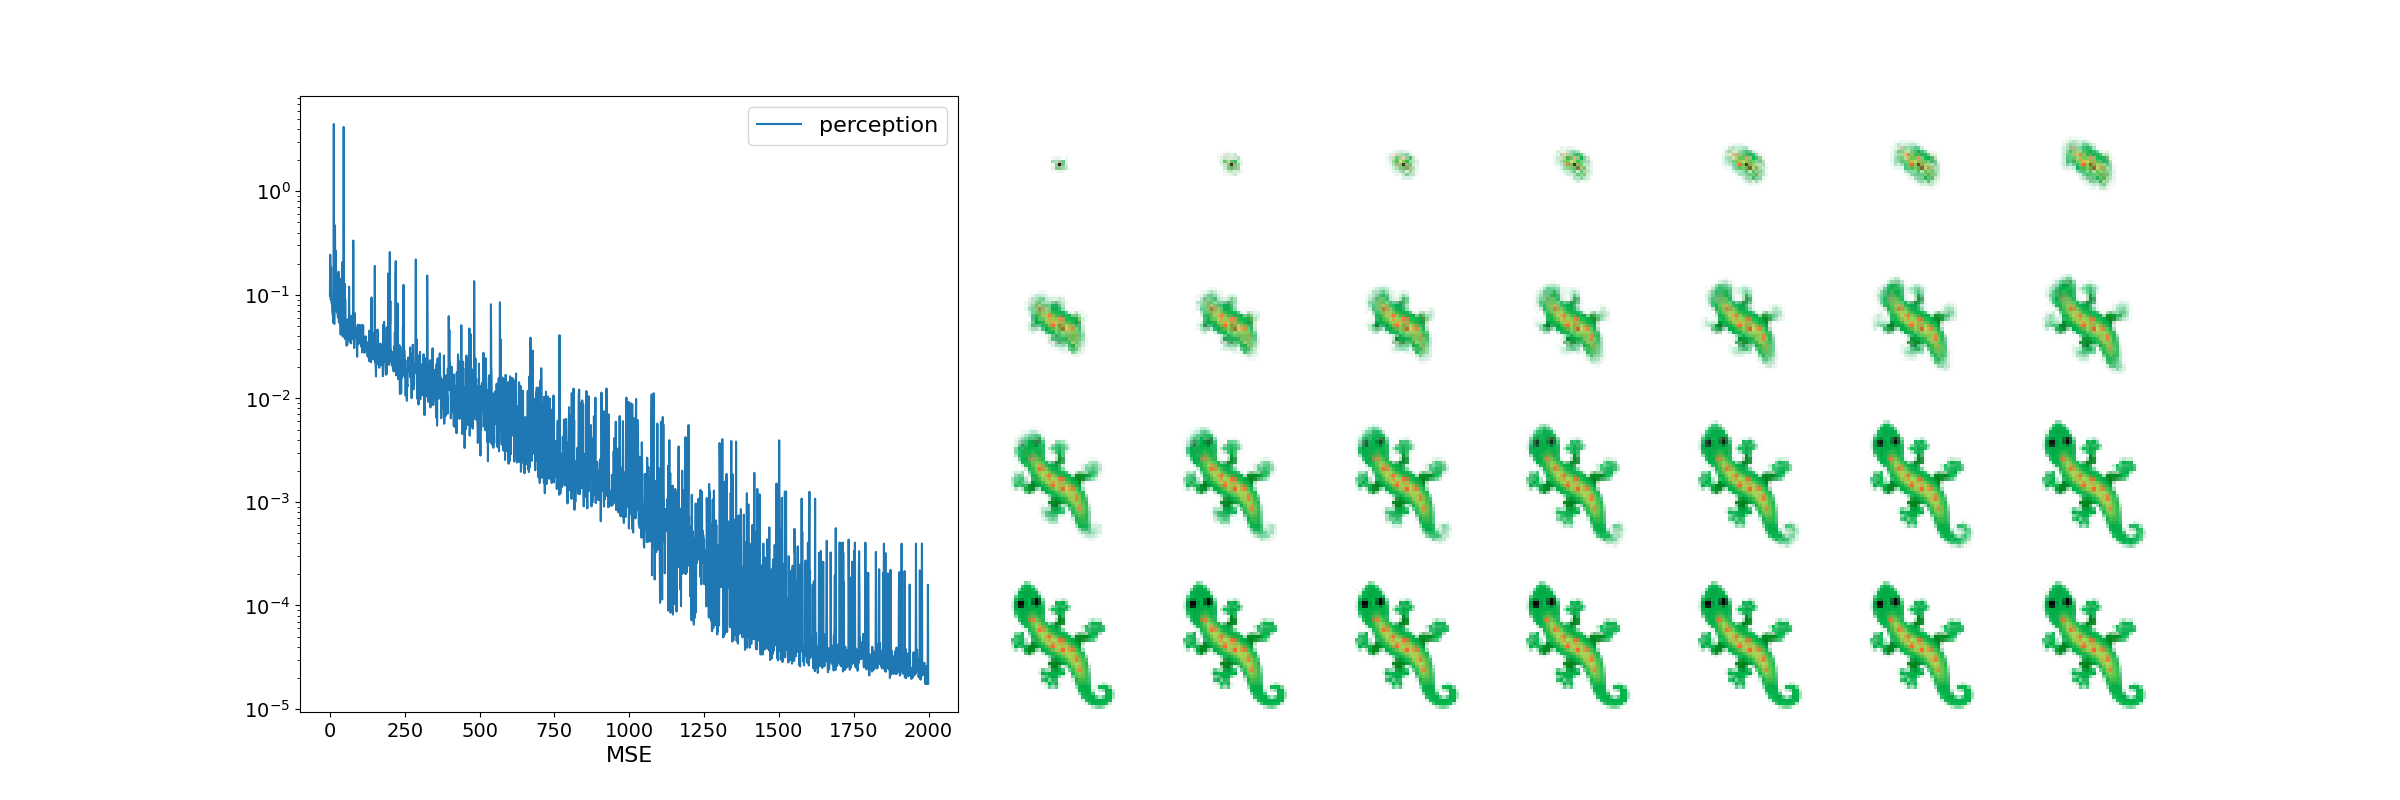
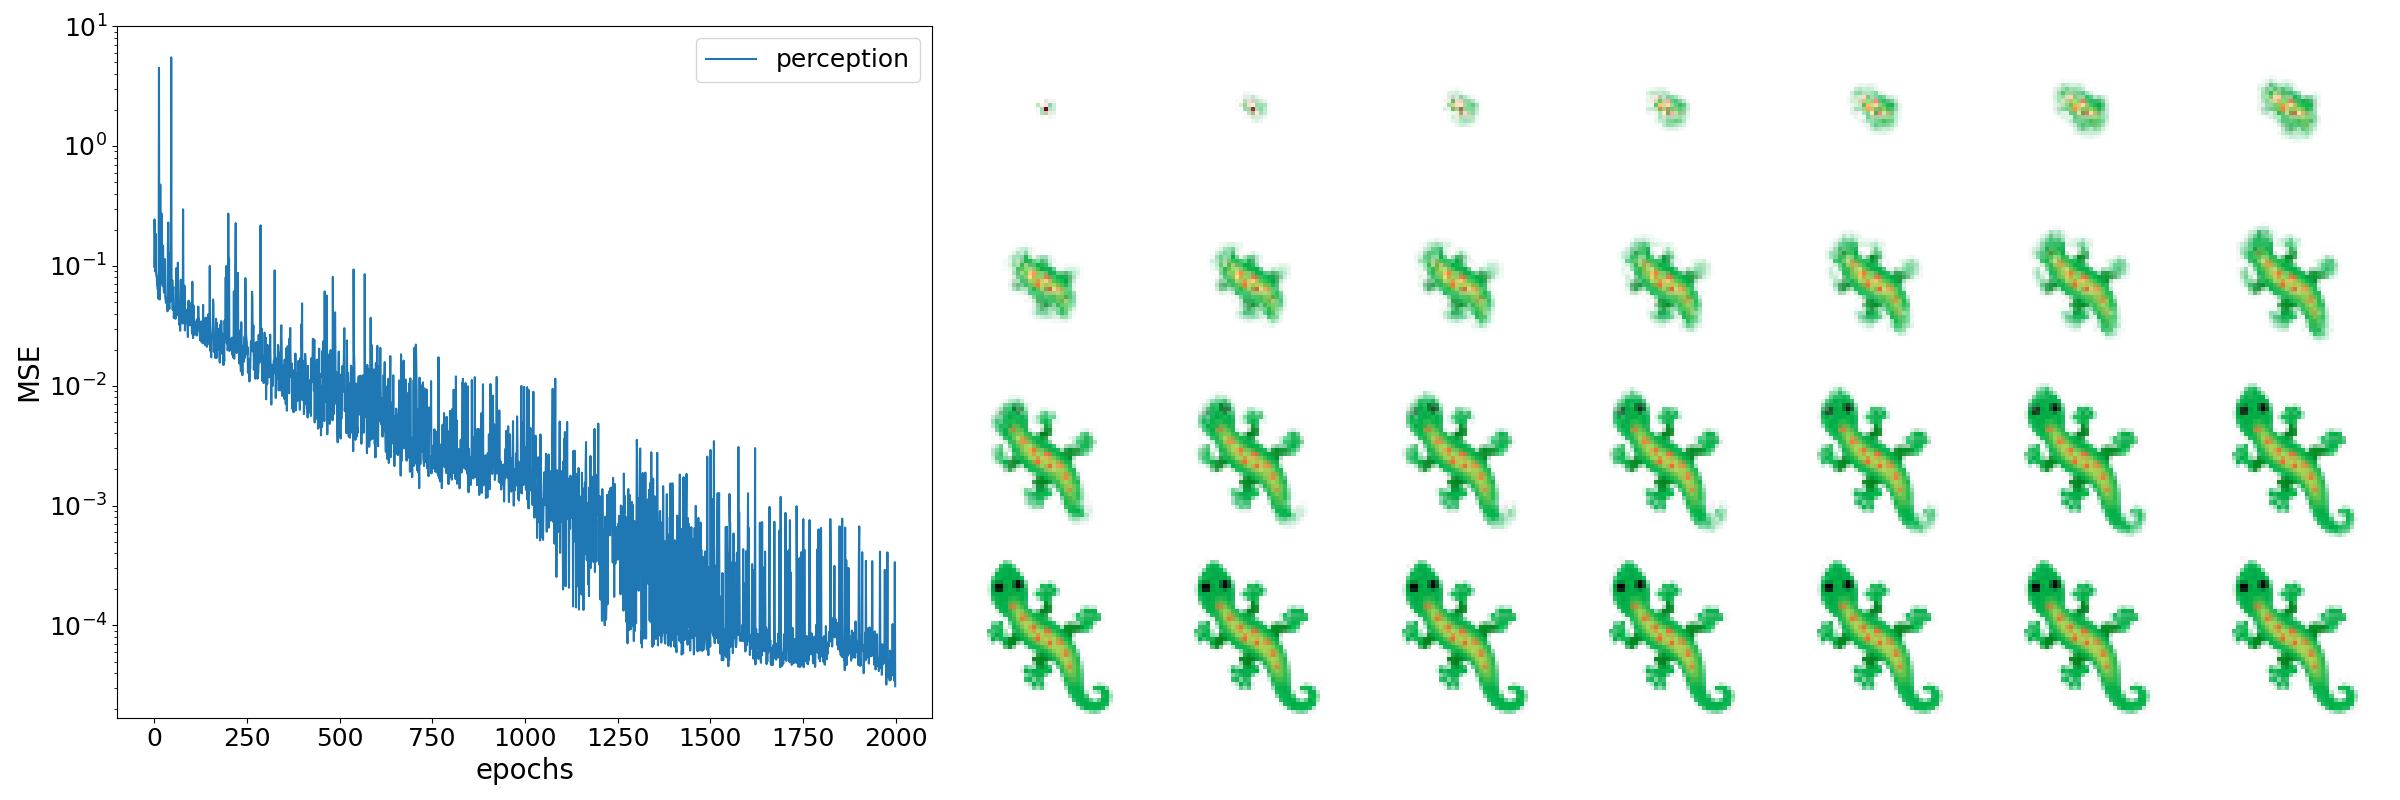
update README figures

diff --git a/utils_figures.py b/utils_figures.py
@@ -12,10 +12,11 @@ def fig_loss_and_synthesis(imgs_syn, losses, save=False, label='loss'):
             count += 2
     ax2 = fig.add_subplot(gs[:4, :4])
     ax2.semilogy(losses, label=label)
-    ax2.legend(fontsize=16)
-    ax2.set_xlabel('epochs', fontsize=16)
-    ax2.set_xlabel('MSE', fontsize=16)
-    ax2.tick_params(axis='x', labelsize=14)
-    ax2.tick_params(axis='y', labelsize=14)
+    ax2.legend(fontsize=18)
+    ax2.set_xlabel('epochs', fontsize=20)
+    ax2.set_ylabel('MSE', fontsize=20)
+    ax2.tick_params(axis='x', labelsize=18)
+    ax2.tick_params(axis='y', labelsize=18)
+    fig.tight_layout()
     if save:
         plt.savefig(save)

diff --git a/main.py b/main.py
@@ -44,7 +44,7 @@ def main():
     lap = jnp.array([[1.0,2.0,1.0],[2.0,-12,2.0],[1.0,2.0,1.0]], dtype=jnp.float32)
     kernels = jnp.stack([ident, sobel_x, sobel_x.T, lap], axis=0)
 
-    # make dummy tensor for evaluation
+    # make dummy tensor to init params
     dummy = jnp.zeros((1,40,40,16))
     dummy.at[:1,...,:4].set(target_img) 
     dummy = jnp.array(dummy, 'float32')
